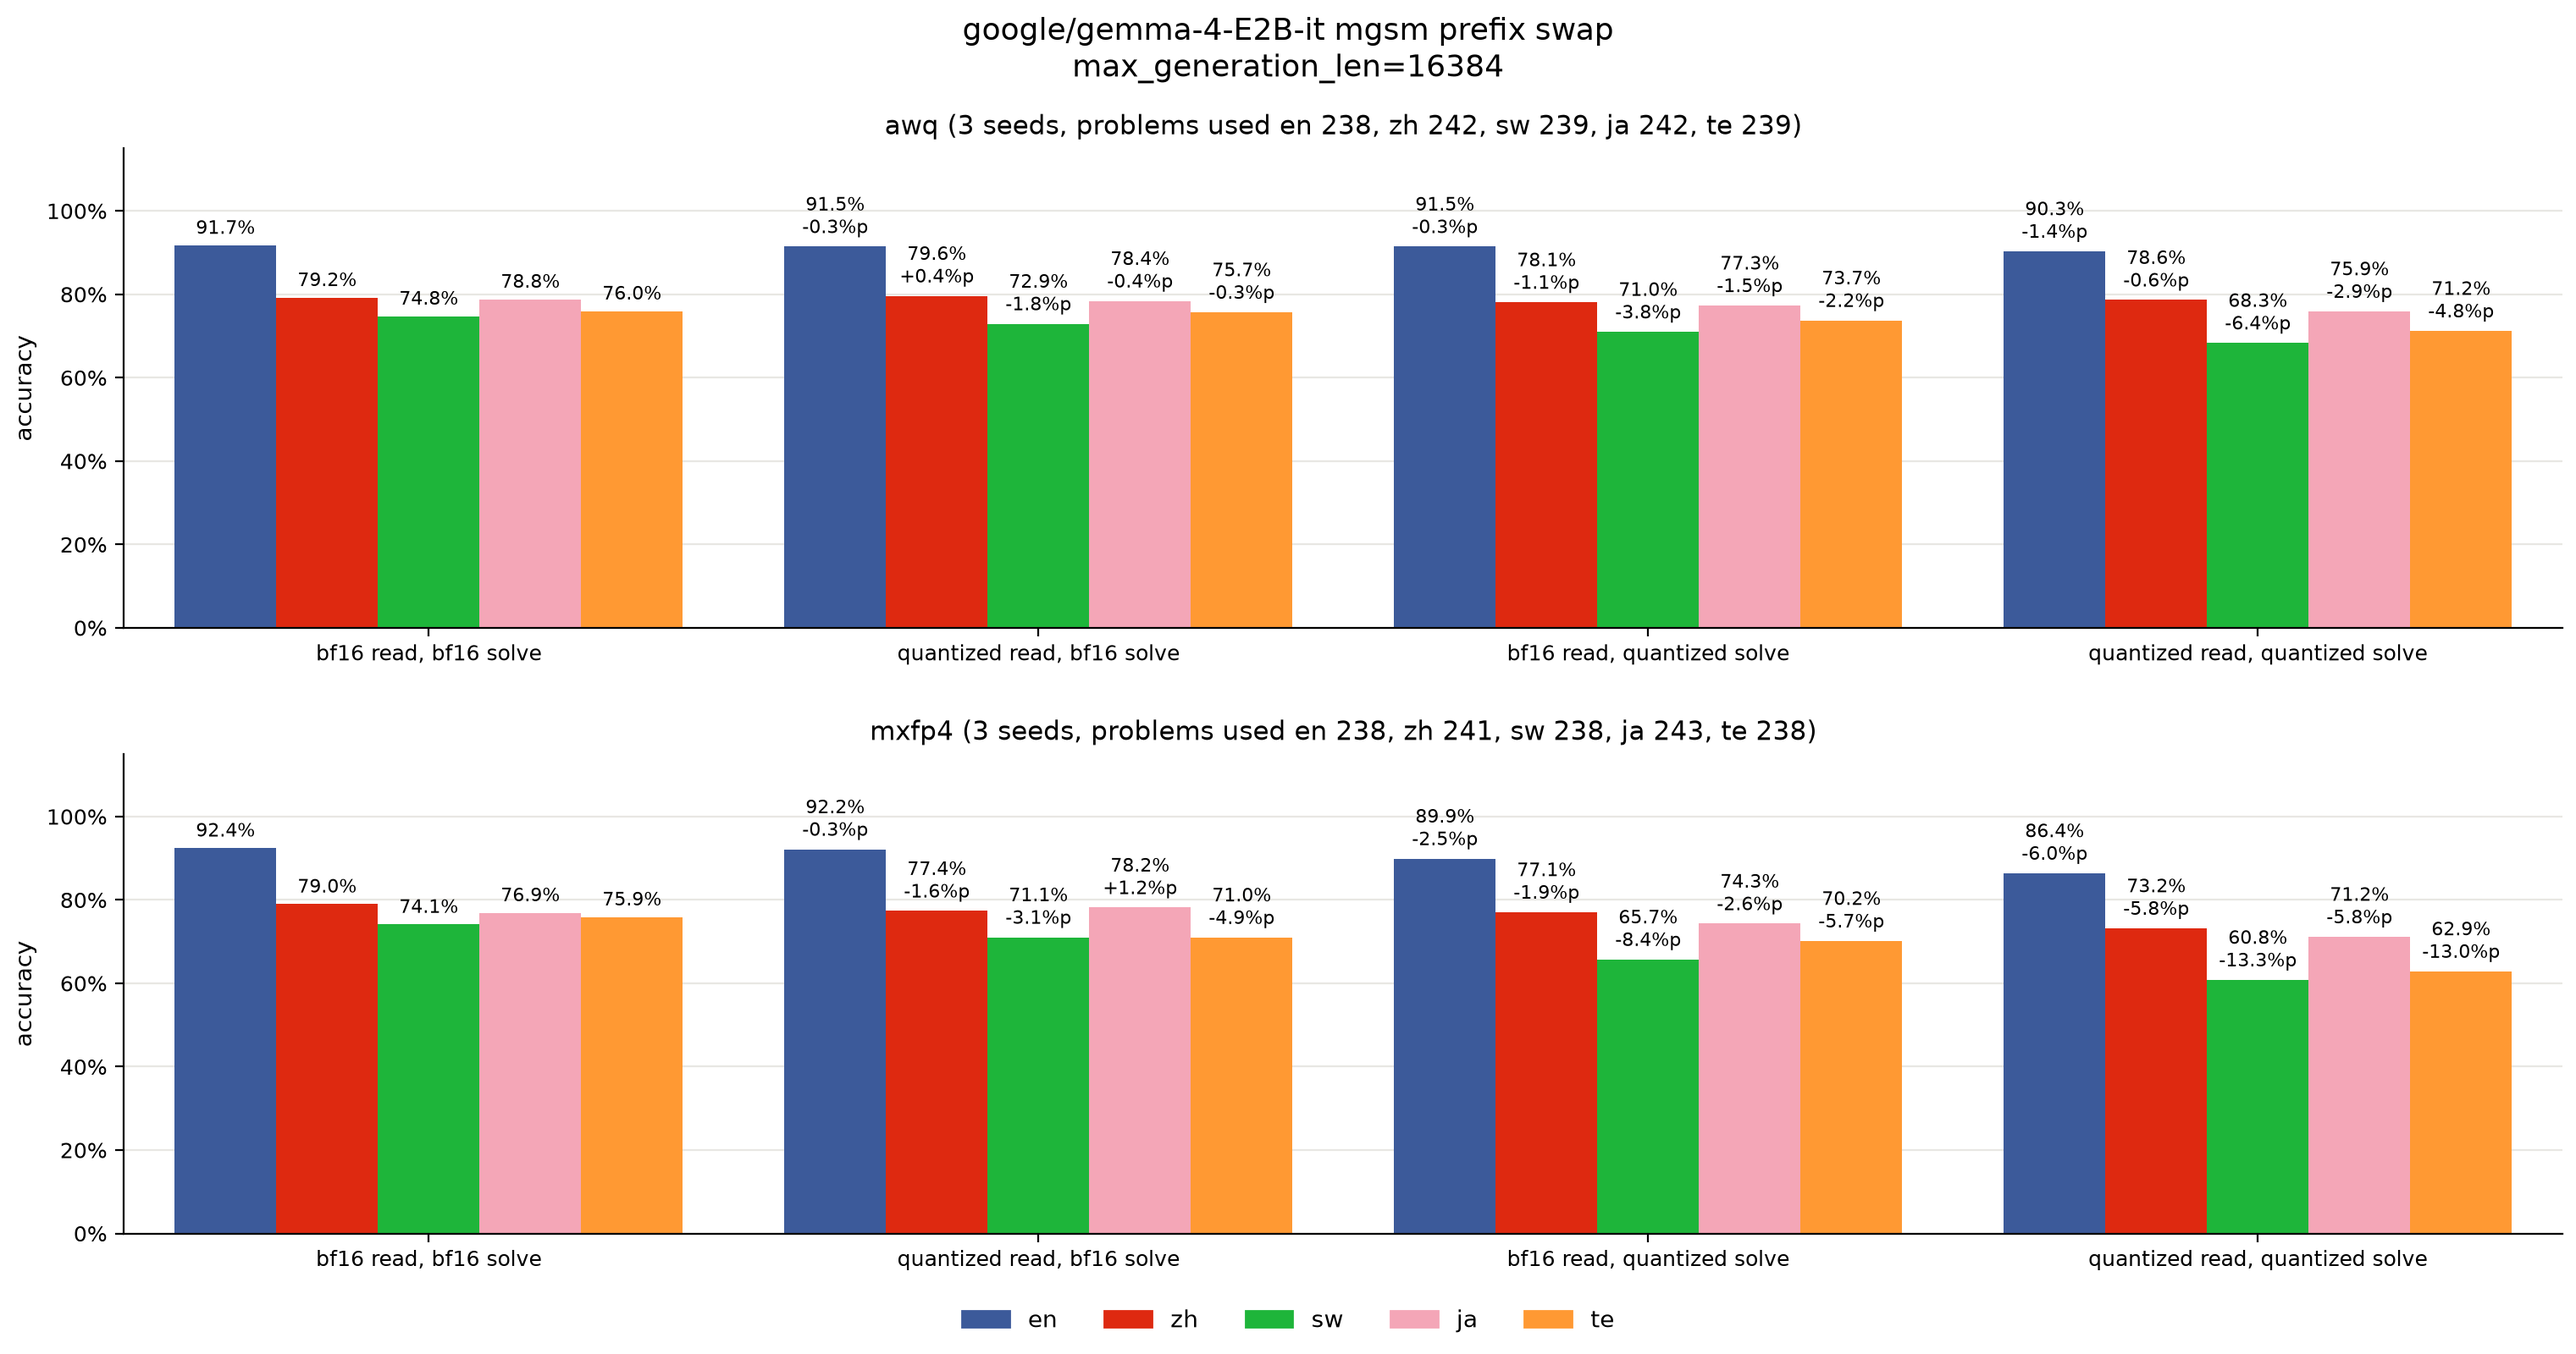
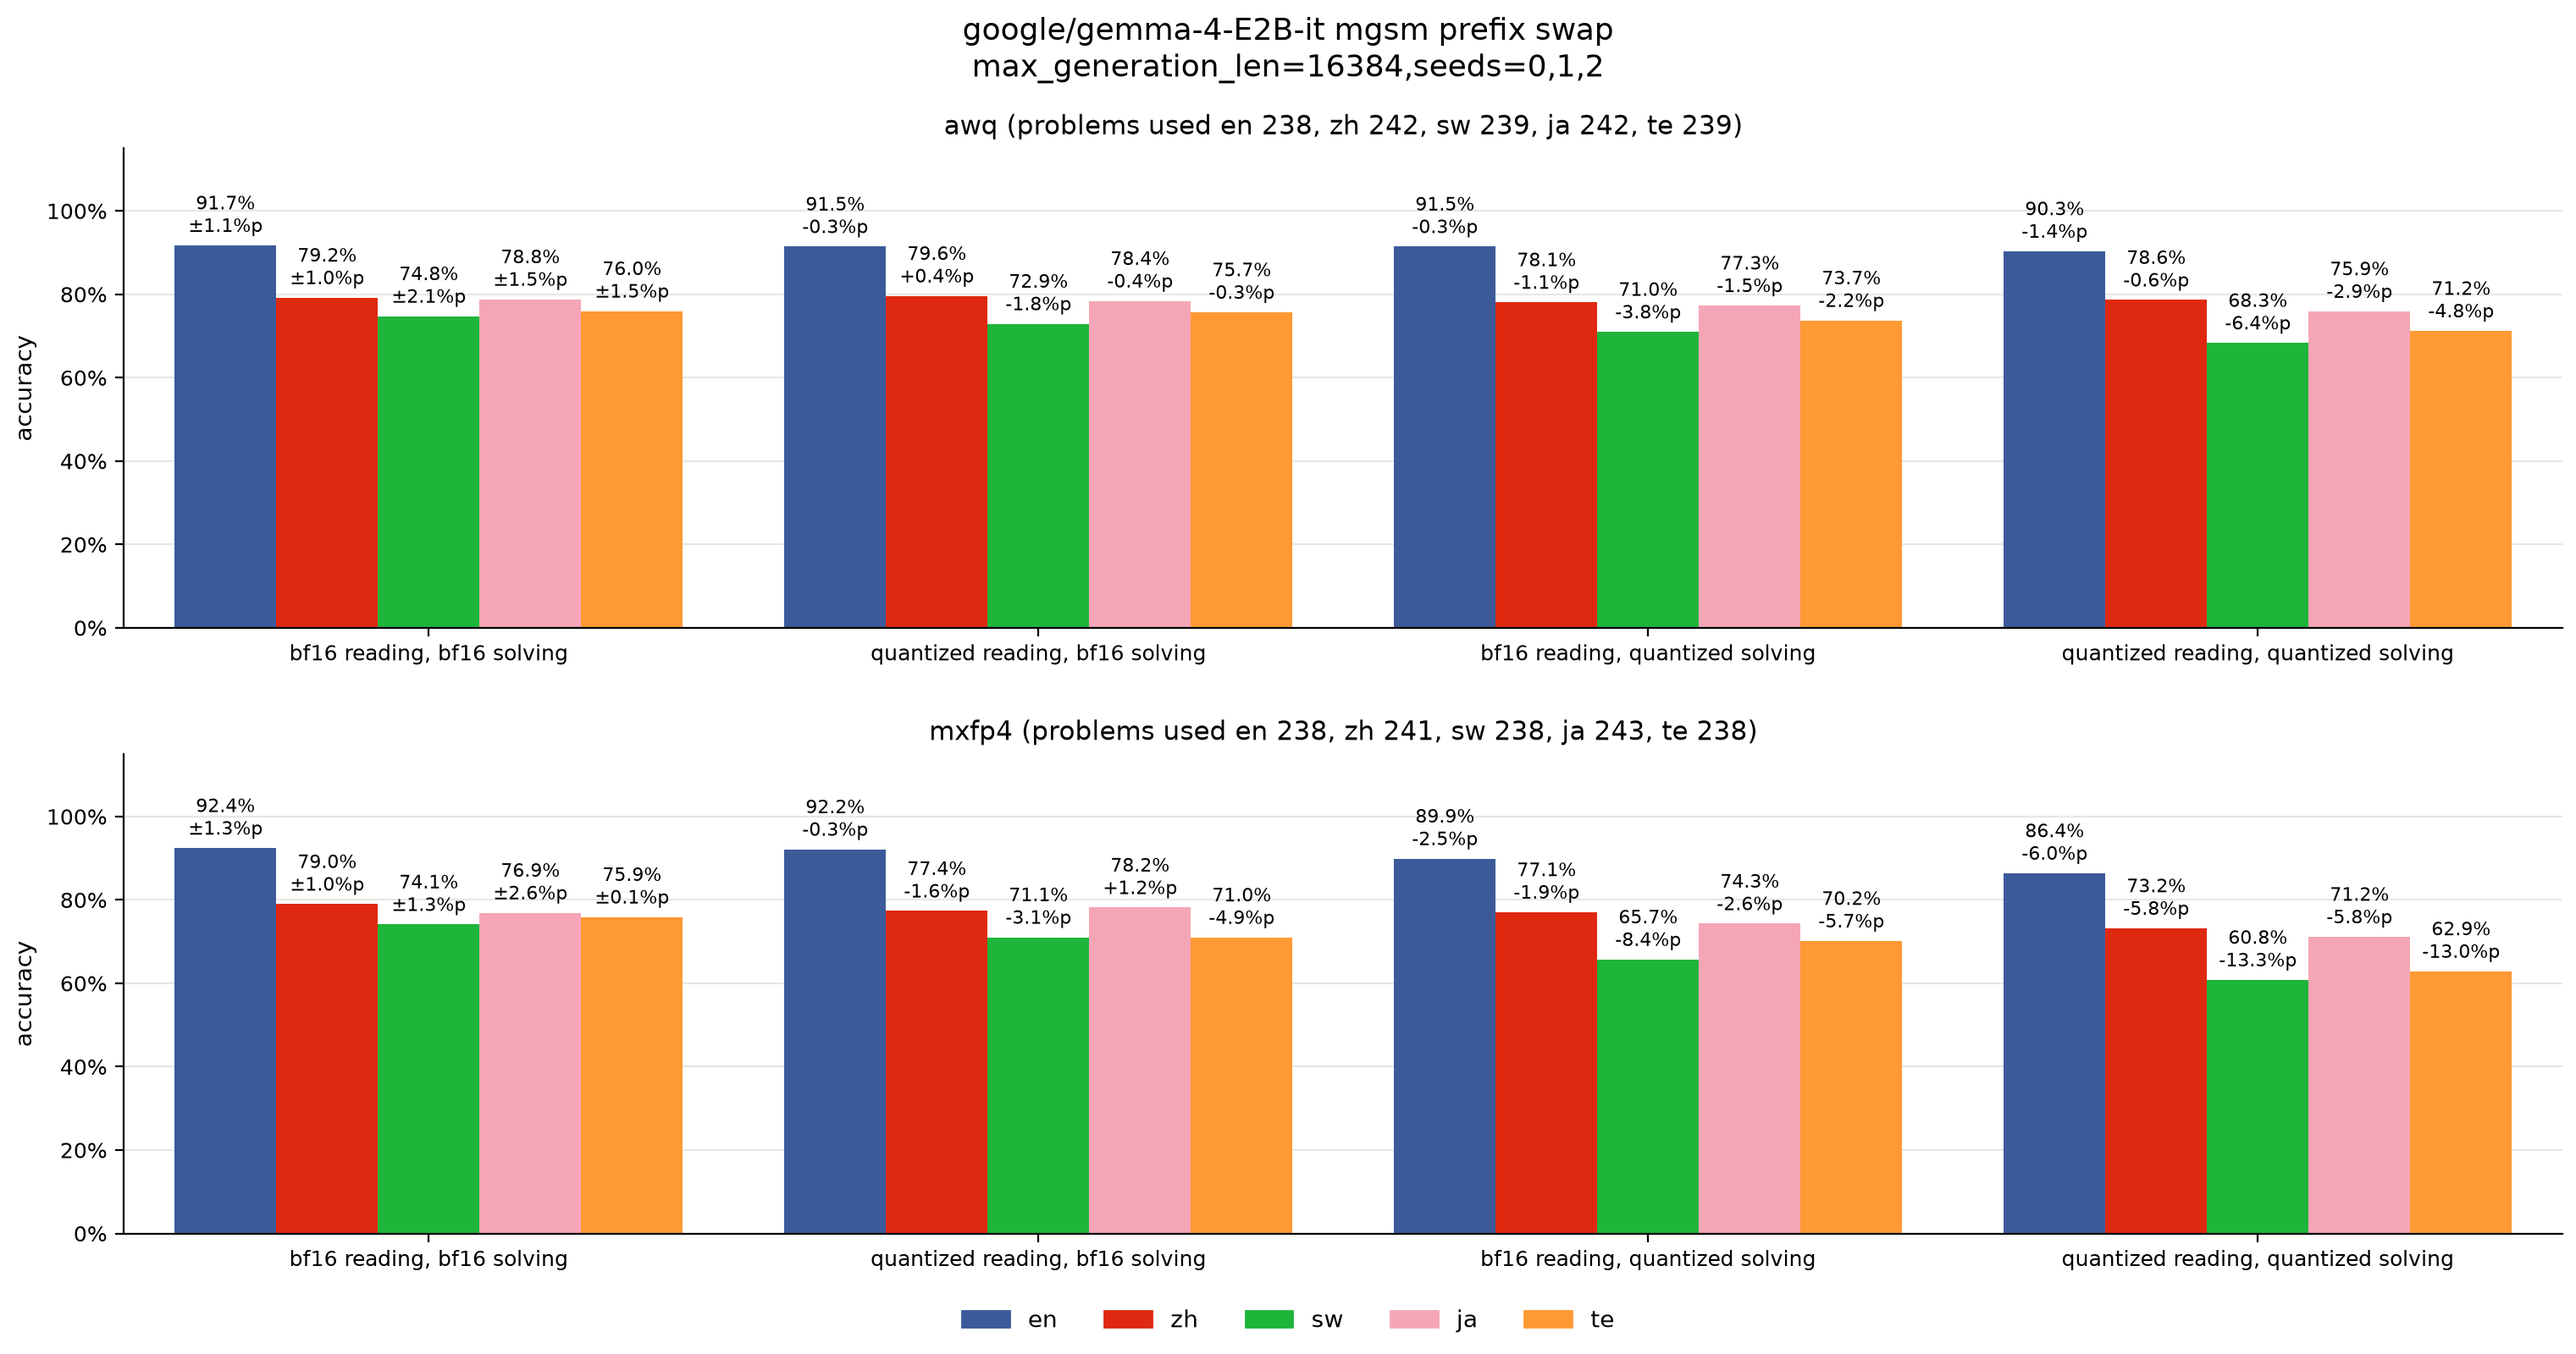
make plot labels consistent

diff --git a/plots/reasoning_swap.py b/plots/reasoning_swap.py
@@ -9,11 +9,11 @@ from simple_parsing import parse
 
 from utils.hub import load_result, result_exists
 from utils.paths import make_target_path
-from utils.plot import LANGUAGE_COLORS, fit_bar_width, format_ratio, get_figsize, get_panel_width, plot_bars, save_figure
+from utils.plot import LANGUAGE_COLORS, fit_bar_width, format_bf16_ratio, format_ratio, get_figsize, get_panel_width, plot_bars, save_figure
 
 LANGUAGES = list(LANGUAGE_COLORS)
 CELLS = [("bf16", "bf16"), ("quantized", "bf16"), ("bf16", "quantized"), ("quantized", "quantized")]
-LABELS = ["bf16 think, bf16 response", "quantized think, bf16 response", "bf16 think, quantized response", "quantized think, quantized response"]
+LABELS = ["bf16 reasoning, bf16 response", "quantized reasoning, bf16 response", "bf16 reasoning, quantized response", "quantized reasoning, quantized response"]
 
 
 @dataclass
@@ -55,18 +55,18 @@ def main() -> None:
                 seed_accuracies.append([mean(correct for problem_index, correct in zip(cell_result[language]["problem_indices"], cell_result[language]["corrects"]) if problem_index in used) for cell_result in cell_results])
             accuracies = [mean(cell_accuracies) for cell_accuracies in zip(*seed_accuracies)]
             used_counts[language] = mean(seed_used_counts)
-            texts = [f"{accuracies[0]:.1%}", *[format_ratio(accuracy, accuracies[0]) for accuracy in accuracies[1:]]]
+            texts = [format_bf16_ratio([cell_accuracies[0] for cell_accuracies in seed_accuracies]), *[format_ratio(accuracy, accuracies[0]) for accuracy in accuracies[1:]]]
             groups.append((accuracies, LANGUAGE_COLORS[language], texts))
 
         plot_bars(ax, LABELS, groups)
         ax.set_ylim(0, 1.15)
         ax.set_ylabel("accuracy")
-        ax.set_title(f"{method} ({len(seed_results)} seeds, problems used {', '.join(f'{language} {used_counts[language]:.0f}' for language in LANGUAGES)})")
+        ax.set_title(f"{method} (problems used {', '.join(f'{language} {used_counts[language]:.0f}' for language in LANGUAGES)})")
         ax.grid(axis="y", color="#e8e7e3", linewidth=0.8)
         ax.set_axisbelow(True)
         ax.yaxis.set_major_formatter(PercentFormatter(1, decimals=0))
 
-    fig.suptitle(f"{config.model_name} mgsm reasoning swap\nmax_generation_len={config.max_generation_len}")
+    fig.suptitle(f"{config.model_name} mgsm reasoning swap\nmax_generation_len={config.max_generation_len},seeds={','.join(map(str, config.seeds))}")
     fig.legend(handles=[Patch(color=LANGUAGE_COLORS[language], label=language) for language in LANGUAGES], loc="outside lower center", ncol=len(LANGUAGES))
     # panels share one column, so fit width by one panel
     fit_bar_width(fig, [axes[0, 0]])

diff --git a/plots/prefix_swap.py b/plots/prefix_swap.py
@@ -9,11 +9,11 @@ from simple_parsing import parse
 
 from utils.hub import load_result, result_exists
 from utils.paths import make_target_path
-from utils.plot import LANGUAGE_COLORS, fit_bar_width, format_ratio, get_figsize, get_panel_width, plot_bars, save_figure
+from utils.plot import LANGUAGE_COLORS, fit_bar_width, format_bf16_ratio, format_ratio, get_figsize, get_panel_width, plot_bars, save_figure
 
 LANGUAGES = list(LANGUAGE_COLORS)
 CELLS = [("bf16", "bf16"), ("quantized", "bf16"), ("bf16", "quantized"), ("quantized", "quantized")]
-LABELS = ["bf16 read, bf16 solve", "quantized read, bf16 solve", "bf16 read, quantized solve", "quantized read, quantized solve"]
+LABELS = ["bf16 reading, bf16 solving", "quantized reading, bf16 solving", "bf16 reading, quantized solving", "quantized reading, quantized solving"]
 
 
 @dataclass
@@ -55,18 +55,18 @@ def main() -> None:
                 seed_accuracies.append([mean(correct for problem_index, correct in zip(cell_result[language]["problem_indices"], cell_result[language]["corrects"]) if problem_index in used) for cell_result in cell_results])
             accuracies = [mean(cell_accuracies) for cell_accuracies in zip(*seed_accuracies)]
             used_counts[language] = mean(seed_used_counts)
-            texts = [f"{accuracies[0]:.1%}", *[format_ratio(accuracy, accuracies[0]) for accuracy in accuracies[1:]]]
+            texts = [format_bf16_ratio([cell_accuracies[0] for cell_accuracies in seed_accuracies]), *[format_ratio(accuracy, accuracies[0]) for accuracy in accuracies[1:]]]
             groups.append((accuracies, LANGUAGE_COLORS[language], texts))
 
         plot_bars(ax, LABELS, groups)
         ax.set_ylim(0, 1.15)
         ax.set_ylabel("accuracy")
-        ax.set_title(f"{method} ({len(seed_results)} seeds, problems used {', '.join(f'{language} {used_counts[language]:.0f}' for language in LANGUAGES)})")
+        ax.set_title(f"{method} (problems used {', '.join(f'{language} {used_counts[language]:.0f}' for language in LANGUAGES)})")
         ax.grid(axis="y", color="#e8e7e3", linewidth=0.8)
         ax.set_axisbelow(True)
         ax.yaxis.set_major_formatter(PercentFormatter(1, decimals=0))
 
-    fig.suptitle(f"{config.model_name} mgsm prefix swap\nmax_generation_len={config.max_generation_len}")
+    fig.suptitle(f"{config.model_name} mgsm prefix swap\nmax_generation_len={config.max_generation_len},seeds={','.join(map(str, config.seeds))}")
     fig.legend(handles=[Patch(color=LANGUAGE_COLORS[language], label=language) for language in LANGUAGES], loc="outside lower center", ncol=len(LANGUAGES))
     # panels share one column, so fit width by one panel
     fit_bar_width(fig, [axes[0, 0]])

diff --git a/plots/teacher_forcing.py b/plots/teacher_forcing.py
@@ -52,15 +52,16 @@ def main() -> None:
     plot_bars(axes["kl"], list(results), kl_groups)
     axes["kl"].set_ylim(0, max(max(values) for values, _, _ in kl_groups) * 1.15)
     axes["kl"].set_ylabel("mean kl per problem")
-    axes["kl"].set_title("kl")
-
     result = results[config.method]
+    used_counts = {language: len(result[f"{language}/problem_index"].unique()) for language in LANGUAGES}
+    axes["kl"].set_title(f"kl (problems used {', '.join(f'{language} {used_counts[language]}' for language in LANGUAGES)})")
+
     for language in LANGUAGES:
         progress_kls = torch.stack([torch.stack([bin_kl.mean() for bin_kl in kl.tensor_split(NUM_PROGRESS_BINS)]) for kl in split_problems(result[f"{language}/kl"], result[f"{language}/problem_index"])])
         axes["progress"].plot(range(1, NUM_PROGRESS_BINS + 1), progress_kls.mean(dim=0), color=LANGUAGE_COLORS[language], marker="o", linewidth=2)
     axes["progress"].set_xticks(range(1, NUM_PROGRESS_BINS + 1), [f"{(index - 1) * 20}-{index * 20}%" for index in range(1, NUM_PROGRESS_BINS + 1)])
     axes["progress"].set_xlabel("reasoning progress")
-    axes["progress"].set_ylabel("mean kl")
+    axes["progress"].set_ylabel("mean kl per problem")
     axes["progress"].set_title(f"{config.method} kl by reasoning progress")
 
     for ax in axes.values():
@@ -68,8 +69,7 @@ def main() -> None:
         ax.set_axisbelow(True)
 
     fig.suptitle(f"{config.model_name} {config.benchmark} teacher forcing\n{file_name}")
-    handles = [Line2D([], [], color=LANGUAGE_COLORS[language], marker="o", linewidth=2, label=f"{language} ({len(result[f'{language}/problem_index'].unique())} problems)") for language in LANGUAGES]
-    fig.legend(handles=handles, loc="outside lower center", ncol=len(handles))
+    fig.legend(handles=[Line2D([], [], color=LANGUAGE_COLORS[language], marker="o", linewidth=2, label=language) for language in LANGUAGES], loc="outside lower center", ncol=len(LANGUAGES))
     fit_bar_width(fig, [axes["kl"]])
     save_figure(fig, config.model_name, f"{config.benchmark}_teacher_forcing")
 

diff --git a/plots/calibration.py b/plots/calibration.py
@@ -47,12 +47,12 @@ def main() -> None:
             ratios = [get_ratio(result[language]) for result in results.values()]
             groups.append(([mean(bf16_ratios), *ratios], LANGUAGE_COLORS[language], [format_bf16_ratio(bf16_ratios), *[format_ratio(ratio, mean(bf16_ratios)) for ratio in ratios]]))
 
-    labels = ["bf16", *results]
+    labels = ["bf16", *[f"awq {calibration}" for calibration in results]]
     panel_widths = [get_panel_width(len(labels), len(languages))]
     fig, axes = plt.subplots(3, 1, figsize=get_figsize(panel_widths, 3), layout="constrained")
     for ax, (_, groups, title, ymax) in zip(axes, panels):
         plot_bars(ax, labels, groups)
-        # same scale for every model and benchmark, so figures can be compared
+        # same scale for every model, benchmark, so figures can be compared
         ax.set_ylim(0, ymax)
         ax.set_ylabel("ratio of all problems")
         ax.set_title(title)
@@ -60,7 +60,7 @@ def main() -> None:
         ax.set_axisbelow(True)
         ax.yaxis.set_major_formatter(PercentFormatter(1, decimals=0))
 
-    fig.suptitle(f"{config.model_name} {config.benchmark} awq calibration loss\n{file_name}")
+    fig.suptitle(f"{config.model_name} {config.benchmark} calibration\n{file_name}")
     handles = [Patch(color=LANGUAGE_COLORS[language], label=f"{language} (bf16 {mean(bf16_result[language]['accuracy'] for bf16_result in bf16_results):.1%})") for language in languages]
     fig.legend(handles=handles, loc="outside lower center", ncol=len(handles))
     # panels share one column, so fit width by one panel

diff --git a/plots/loss.py b/plots/loss.py
@@ -57,7 +57,7 @@ def main() -> None:
     fig, axes = plt.subplots(3, 1, figsize=get_figsize(panel_widths, 3), layout="constrained")
     for ax, (_, groups, title, ymax) in zip(axes, panels):
         plot_bars(ax, labels, groups)
-        # same scale for every model and benchmark, so figures can be compared
+        # same scale for every model, benchmark, so figures can be compared
         ax.set_ylim(0, ymax)
         ax.set_ylabel("ratio of all problems")
         ax.set_title(title)

diff --git a/utils/plot.py b/utils/plot.py
@@ -53,7 +53,7 @@ def format_ratio(
 def format_bf16_ratio(
     bf16_ratios: list[float],
 ) -> str:
-    return f"{mean(bf16_ratios):.1%}\n±{stdev(bf16_ratios):.1%}"
+    return f"{mean(bf16_ratios):.1%}\n±{stdev(bf16_ratios):.1%}p"
 
 
 def plot_bars(
